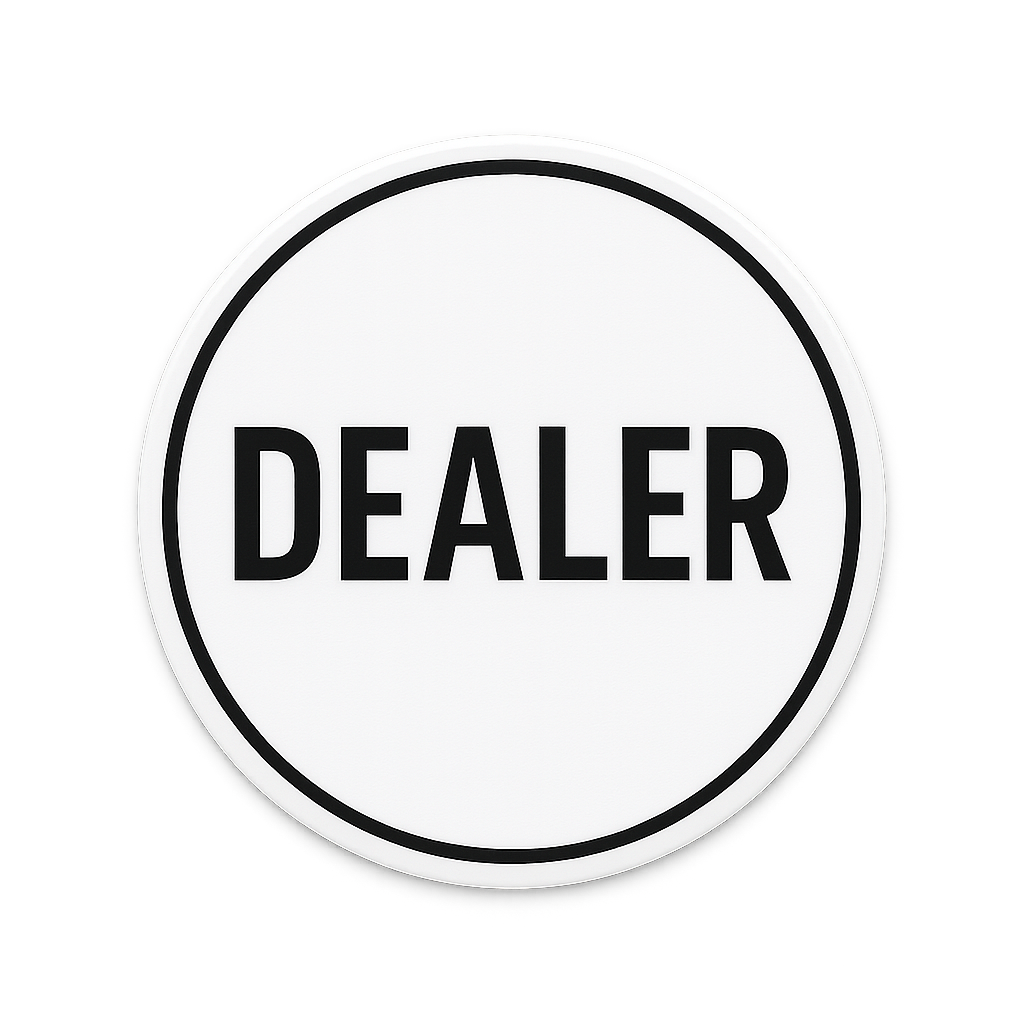
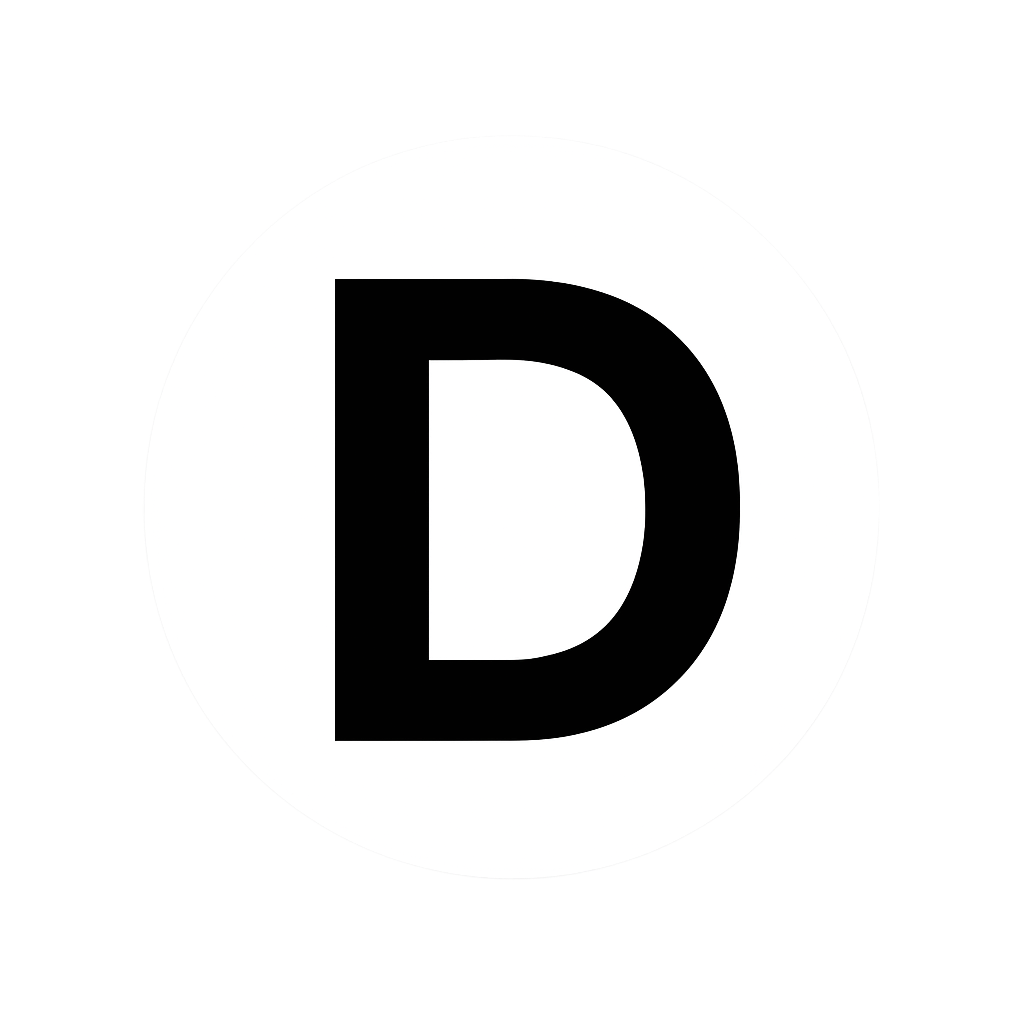
Version 0.1.0

Changed region(s): [[0.2188, 0.25, 0.7812, 0.75], [0.125, 0.1875, 0.875, 0.875], [0.3125, 0.1562, 0.625, 0.2188]]

diff --git a/MikoPokerUI/assets/scripts/SlotLayoutManager.ts b/MikoPokerUI/assets/scripts/SlotLayoutManager.ts
@@ -98,11 +98,11 @@ export class SlotLayoutManager extends Component {
                 configs.push(
                     { position: new Vec3(0, -250, 0), rotation: 0, seatIndex: 0 },      // Seat 0: Human (bottom center)
                     { position: new Vec3(-200, -250, 0), rotation: 0, seatIndex: 1 },   // Seat 1: ai1 (bottom left)
-                    { position: new Vec3(-400, 0, 0), rotation: 90, seatIndex: 2 },     // Seat 2: ai2 (left side)
-                    { position: new Vec3(-200, 250, 0), rotation: 180, seatIndex: 3 },  // Seat 3: ai3 (top left)
-                    { position: new Vec3(0, 250, 0), rotation: 180, seatIndex: 4 },     // Seat 4: ai4 (top center)
-                    { position: new Vec3(200, 250, 0), rotation: 180, seatIndex: 5 },   // Seat 5: ai5 (top right)
-                    { position: new Vec3(400, 0, 0), rotation: 270, seatIndex: 6 },     // Seat 6: ai6 (right side)
+                    { position: new Vec3(-440, 0, 0), rotation: 90, seatIndex: 2 },     // Seat 2: ai2 (left side)
+                    { position: new Vec3(-200, 220, 0), rotation: 180, seatIndex: 3 },  // Seat 3: ai3 (top left, moved down 40px)
+                    { position: new Vec3(0, 220, 0), rotation: 180, seatIndex: 4 },     // Seat 4: ai4 (top center, moved down 40px)
+                    { position: new Vec3(200, 220, 0), rotation: 180, seatIndex: 5 },   // Seat 5: ai5 (top right, moved down 40px)
+                    { position: new Vec3(440, 0, 0), rotation: 270, seatIndex: 6 },     // Seat 6: ai6 (right side)
                     { position: new Vec3(200, -250, 0), rotation: 0, seatIndex: 7 }     // Seat 7: ai7 (bottom right)
                 );
                 break;
@@ -181,7 +181,7 @@ export class SlotLayoutManager extends Component {
         // Go clockwise (negative direction in standard math, but visually clockwise on screen)
         const startAngle = 3 * Math.PI / 2;  // 270 degrees (bottom)
         const angleStep = (2 * Math.PI) / totalSeats;
-        
+
         return startAngle - (seatIndex * angleStep);
     }
 
@@ -211,7 +211,7 @@ export class SlotLayoutManager extends Component {
         debugLabel.string = `Slot ${index}`;
         debugLabel.fontSize = 12;
         debugLabel.color = new Color(255, 255, 0, 255);
-        
+
         console.log(`✅ Created Slot ${index} at position (${config.position.x.toFixed(0)}, ${config.position.y.toFixed(0)})`);
 
         return slot;

diff --git a/MikoPokerUI/assets/scripts/GameTable.ts b/MikoPokerUI/assets/scripts/GameTable.ts
@@ -868,7 +868,7 @@ export class GameTable extends Component {
             betLabelY = 120;
         } else if (slotPos.y > 100) {
             // Top players (slots 3, 4, 5) - place label BELOW cards/name/stack
-            betLabelY = -120; // Further down to avoid name/stack overlap
+            betLabelY = -120; // default for top; may be adjusted below per seat
         } else {
             // Side players (slots 2, 6) - place label to the side
             if (slotPos.x < 0) {
@@ -880,6 +880,12 @@ export class GameTable extends Component {
                 betLabelX = -120;
                 betLabelY = 0;
             }
+        }
+
+        // Fine-tune top-row bet labels (seats 3, 4, 5): place just below chip stack
+        if (seatIndex === 3 || seatIndex === 4 || seatIndex === 5) {
+            betLabelX = 0;
+            betLabelY = -75; // chips at -50 → small gap (~25px) below
         }
 
         // Create bet label under Overlay (initially hidden)
@@ -1566,22 +1572,11 @@ export class GameTable extends Component {
         // Display showdown results with detailed information
         if (this.statusLabel) {
             const winners = result.winners.join(', ');
-            const potAmount = result.potAmount || 0;
 
-            // Build a detailed status message
-            let statusMsg = `🏆 ${winners} wins $${potAmount}!`;
-
-            // Only show hand info if there was a showdown (not a fold win)
+            // Show only winner(s) and winning hand
+            let statusMsg = `🏆 ${winners} wins!`;
             if (result.winningHand) {
                 statusMsg += `\nWinning Hand: ${result.winningHand}`;
-
-                // If there's player hand info, show it
-                if (result.playerHand) {
-                    statusMsg += `\nYour Hand: ${result.playerHand}`;
-                }
-            } else {
-                // Win by fold - no showdown occurred
-                statusMsg += '\n(Everyone else folded)';
             }
 
             this.statusLabel.string = statusMsg;

diff --git a/CHANGELOG.md b/CHANGELOG.md
@@ -2,6 +2,23 @@
 
 All notable changes to the MikoPoker project will be documented in this file.
 
+## [0.1.0] - 2025-10-13 (First Tag)
+
+### Versions
+- Engine: 0.3.2
+- UI: 0.2.5
+- Main App: 0.1.0
+
+### Highlights
+- Switched card assets to `deck4`.
+- Card sizing: hole cards 80x112; board cards 100x140; enforce CUSTOM sizing after sprite loads.
+- Label layout updates:
+  - Top (ai3, ai4, ai5) and sides (ai2, ai6): player name above cards; chip stack below cards; chip font 24.
+  - Bottom (ai1, player, ai7): keep name at original; chip stack above cards; chip font 24; active chip font 26.
+  - Bet labels adjusted: top-row bet labels positioned just below chip stacks with small spacing.
+- Rectangular layout: moved top-row seats (3, 4, 5) down by ~40px for better spacing.
+- Showdown status: displays winner(s) and winning hand only (no player hand/pot amount).
+
 ## [UI] - 2025-10-11 23:30
 
 ### GameTable UI
